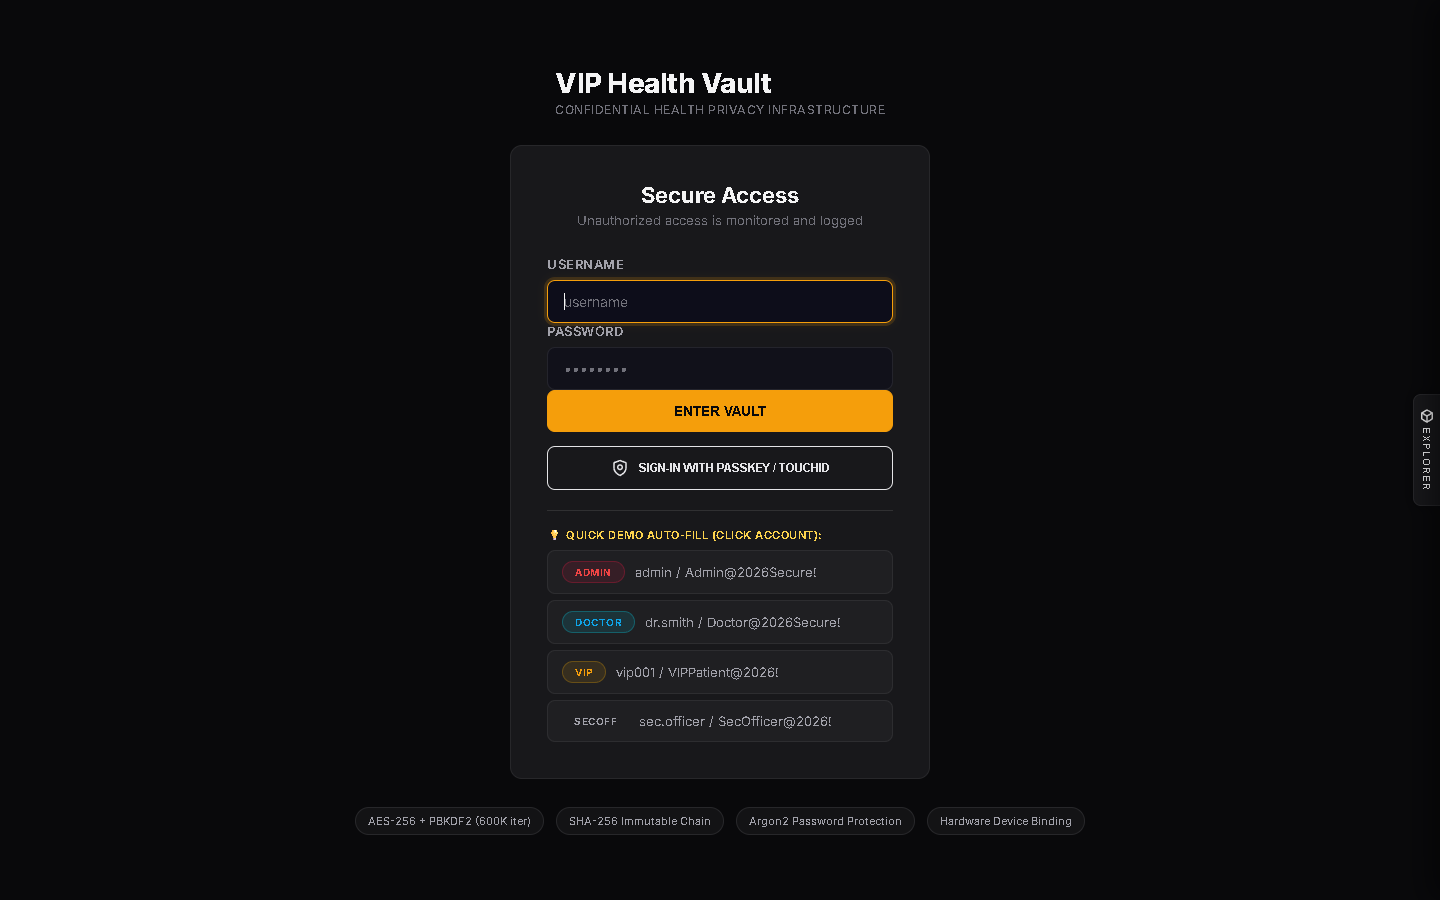
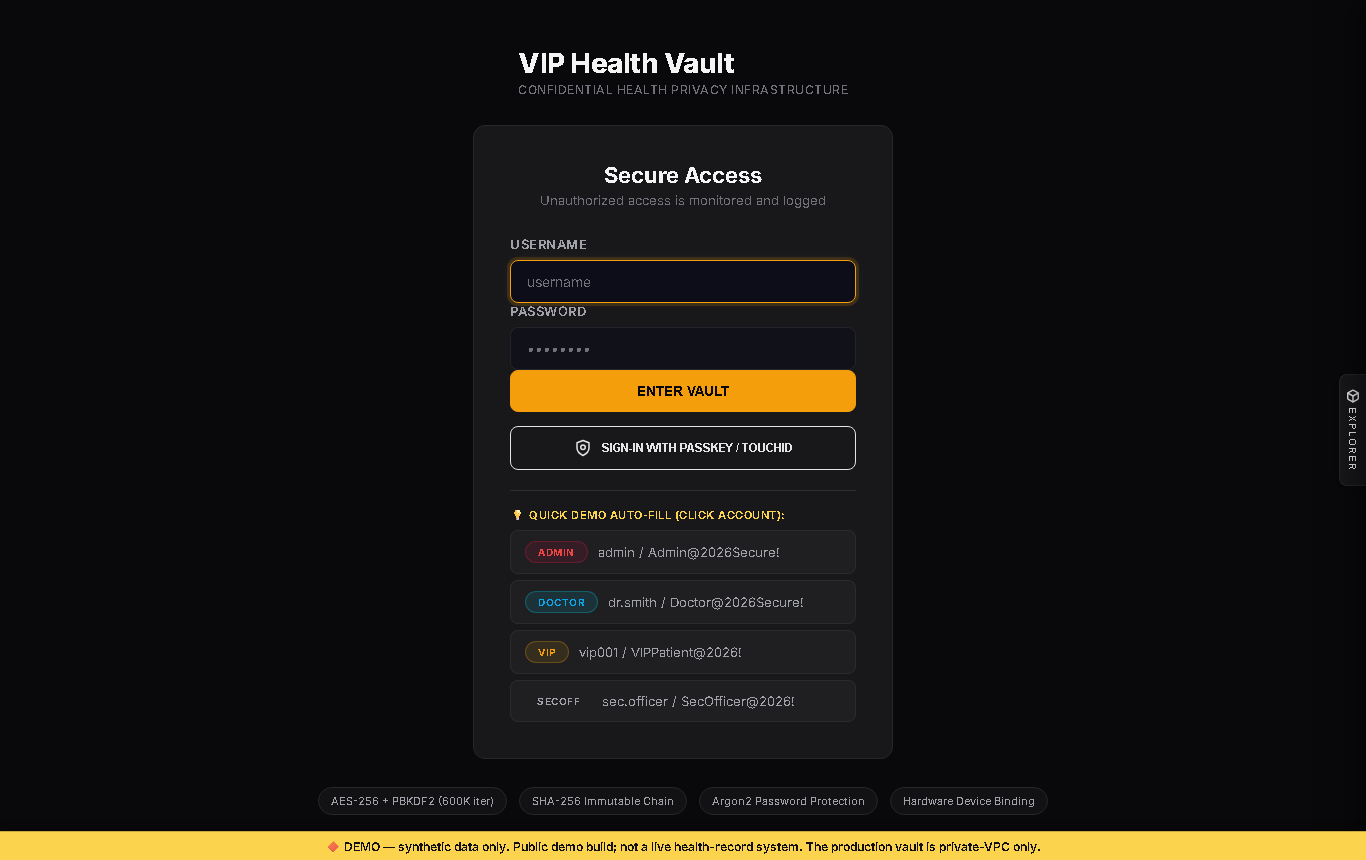
docs(screenshots): refresh gallery with current UI (login, dashboard, records, ledger)
Regenerated real PNGs from a pristine demo (only the seeded 4-week cardiology
chart) via a headless Playwright pass, so the dashboard shows populated vitals,
the allergy banner, the vital-sign trend chart, and a VALID chain — and the DEMO
ribbon is visible. New set: login, dashboard, medical records (encrypted,
access-scoped cards), and the tamper-evident access ledger. Dropped the stale
dual-control / merkle-proof shots.

diff --git a/README.md b/README.md
@@ -9,13 +9,13 @@
 Captured from a running instance seeded by demo mode — the chart, the trends and the
 hashes below are what the application actually produces.
 
-| Stealth login | VIP patient dashboard |
+| Stealth login | VIP patient dashboard (vitals, allergy banner, chain integrity) |
 | :---: | :---: |
 | ![Login](docs/screenshots/01_login.png) | ![Dashboard](docs/screenshots/02_dashboard.png) |
 
-| Dual-Control access request | Merkle inclusion proof |
+| Medical records (encrypted, access-scoped) | Tamper-evident access ledger |
 | :---: | :---: |
-| ![Dual-Control](docs/screenshots/03_dual_control.png) | ![Merkle proof](docs/screenshots/04_merkle_proof.png) |
+| ![Records](docs/screenshots/03_records.png) | ![Access ledger](docs/screenshots/04_access_ledger.png) |
 
 ---
 
